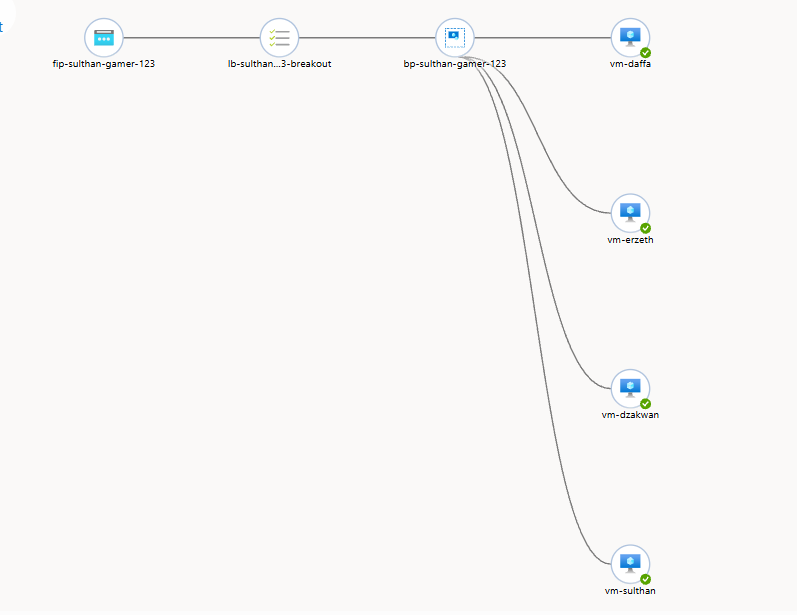
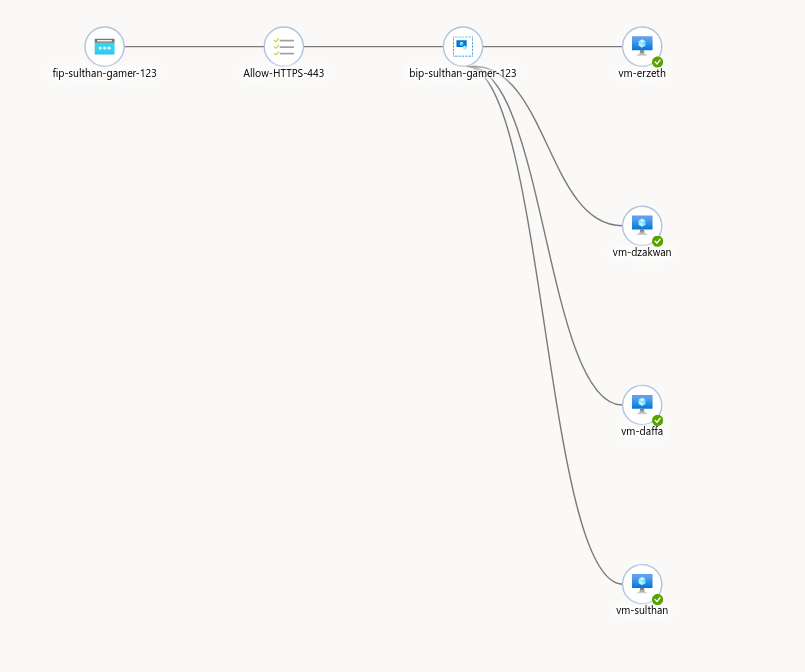
readme

diff --git a/README.md b/README.md
@@ -1,145 +1,176 @@
 # Lab Based Education (LBE) Final Capstone Project
-
+ 
 ## Project Overview
-Proyek ini merupakan tugas akhir untuk *Lab Based Education (LBE) Workshop*. Sistem ini mengimplementasikan infrastruktur *cloud* yang resilient dan handal menggunakan **Azure Standard Load Balancer** untuk mendistribusikan lalu lintas HTTP (Port 80) ke 4 Virtual Machine (VM) Ubuntu. Masing-masing VM menjalankan aplikasi portofolio anggota tim yang dikemas di dalam kontainer **Docker (Nginx)** pada port 8080.
-
+Proyek ini merupakan tugas akhir untuk *Lab Based Education (LBE) Workshop*. Sistem ini mengimplementasikan infrastruktur *cloud* yang resilient dan handal menggunakan **Azure Standard Load Balancer** untuk mendistribusikan lalu lintas **HTTPS (Port 443)** ke 4 Virtual Machine (VM) Ubuntu. Masing-masing VM menjalankan dua kontainer Docker: **Caddy** (reverse proxy sekaligus TLS terminator) dan **Nginx** yang menyajikan aplikasi portofolio anggota tim.
+ 
 ---
-
+ 
 ## Team Members & Roles
-
+ 
 | Name | Role | VM Name | Username / Hostname |
 | --- | --- | --- | --- |
-| **Daffa** | Team Owner  | `vm-daffa` | `daffa` |
-| **Sulthan** | Cloud Infrastructure Engineer | `vm-sulthan` | `sulthan` |
-| **Dzakwan** | Cloud Infrastructure Engineer | `vm-dzakwan` | `dzakwan` |
-| **Erzeth** | Cloud Infrastructure Engineer | `vm-erzeth` | `erzeth` |
-
+| **Erzeth** | VM **dengan** Public IP | `vm-erzeth` | `erzeth` |
+| **Daffa** | VM tanpa Public IP | `vm-daffa` | `daffa` |
+| **Sulthan** | VM tanpa Public IP | `vm-sulthan` | `sulthan` |
+| **Dzakwan** | VM tanpa Public IP | `vm-dzakwan` | `dzakwan` |
+ 
 ---
-
+ 
 ## System Architecture
+ 
 ![load balancer](docs/healthy-backend-pool.png)
+
+ 
 * **Shared Resource Group & VNet:** Seluruh VM dan Load Balancer berada di dalam satu Resource Group dan Virtual Network yang sama.
-* **Frontend Port:** 80 (Akses HTTP Publik).
-* **Backend Port:** 8080 (Mapped ke Port 80 Nginx di dalam Docker Container).
-* **Session Persistence:** `None` (Memastikan distribusi koneksi terbagi rata pada Layer 4).
+* **Domain:** `sulthangamer123.run.place`
+* **Frontend Port:** 443 (HTTPS, Akses Publik).
+* **Backend Port:** 443, diteruskan ke kontainer Caddy pada setiap VM.
+* **TLS Termination:** Ditangani oleh **Caddy** di setiap VM, menggunakan sertifikat dari **Let's Encrypt**.
+* **Session Persistence:** `None` (memastikan distribusi koneksi terbagi rata pada Layer 4).
+* **NSG:** Inbound rule TCP port 443 diizinkan pada seluruh VM.
 
 ---
-
+ 
 ## Application Structure & Deployment
-
-Aplikasi menggunakan pendekatan **Unified Docker Image** yang dinamis. Satu image Docker memuat seluruh folder portofolio anggota tim, dan memilih folder yang sesuai berdasarkan variabel lingkungan `MEMBER_NAME` yang diinisialisasi dari `$(whoami)` pada setiap VM.
-
+ 
+Aplikasi menggunakan pendekatan **Unified Docker Image** yang dinamis untuk kontainer portofolio. Satu image Docker memuat seluruh folder portofolio anggota tim, dan memilih folder yang sesuai berdasarkan variabel lingkungan `MEMBER_NAME` yang diinisialisasi dari `$(whoami)` pada setiap VM. Di atasnya, sebuah kontainer **Caddy** menangani HTTPS dan meneruskan trafik ke kontainer portofolio melalui Docker network internal (`webnet`), tanpa perlu membuka port tambahan di host.
+ 
 ### Repository Structure
+ 
 ```text
 .
+├── docker-compose.yml
+├── .env                          # berisi MEMBER_NAME, berbeda di tiap VM
+├── deploy.sh                     # script deploy: set MEMBER_NAME + docker compose up
 ├── app
-│   ├── Dockerfile
-│   ├── entrypoint.sh
-│   └── src
-│       ├── daffa
-│       │   ├── assets
-│       │   │   └── gw-pas-masih-ganteng.jpg
-│       │   └── src
-│       │       └── index.html
-│       ├── dzakwan
-│       │   └── src
-│       │       └── index.html
-│       ├── erzeth
-│       │   └── src
-│       │       ├── index.html
-│       │       ├── script.js
-│       │       └── style.css
-│       └── sulthan
-│           └── src
-│               └── index.html
+│   ├── Dockerfile
+│   ├── Caddyfile
+│   ├── entrypoint.sh
+│   └── src
+│       ├── daffa/...
+│       ├── dzakwan/...
+│       ├── erzeth/...
+│       └── sulthan/...
 ├── docs
-│   ├── healthy-backend-pool.png
-│   ├── healthy-curl-loop-output.jpeg
-│   ├── one-vm-down-backend-pool.jpeg
-│   └── one-vm-down-curl-loop-output.jpeg
+│   ├── healthy-backend-pool.png          # ⚠ perlu diganti
+│   ├── healthy-curl-loop-output.jpeg     # ⚠ perlu diganti
+│   ├── one-vm-down-backend-pool.jpeg     # ⚠ perlu diganti
+│   ├── one-vm-down-curl-loop-output.jpeg # ⚠ perlu diganti
+│   ├── nsg-rule-443.png                  # 🆕 tambahkan
+│   └── caddy-cert-log.png                # 🆕 tambahkan
 └── README.md
 ```
-
+ 
 ### Build & Offline Distribution Steps
-
-1. **Build Image di Jump Box (`vm-daffa`):**
+ 
+Karena hanya `vm-erzeth` yang memiliki akses internet (public IP), image dibangun sekali di `vm-erzeth`, kemudian didistribusikan secara offline ke 3 VM lainnya.
+ 
+**1. Build & Save Image di Jump Server (`vm-erzeth`):**
 ```bash
-docker build -t portfolio-app -f docker/Dockerfile .
-docker save portfolio-app -o ~/portfolio-app.tar
-
+docker compose build --no-cache portfolio
+docker save -o portfolio-image.tar sulthangamer123/portfolio-app:latest 
+docker save -o ~/caddy-image.tar caddy:alpine
+```
+ 
+**2. Distribusi Image via Network Lokal (`scp`):**
+```bash
+scp ~/portfolio-image.tar ~/caddy-image.tar sulthan@10.0.2.4:~/
+scp ~/portfolio-image.tar ~/caddy-image.tar dzakwan@10.0.3.4:~/
 ```
 
-
-2. **Distribusi File Image via Network Local (`scp`):**
+ 
+**3. Load Image dan Jalankan di Masing-masing VM:**
 ```bash
-scp ~/portfolio-app.tar sulthan@10.0.2.4:~/
-scp ~/portfolio-app.tar dzakwan@10.0.4.4:~/
-scp ~/portfolio-app.tar erzeth@10.0.0.4:~/
-
+docker load -i ~/portfolio-image.tar
+docker load -i ~/caddy-image.tar
+./deploy.sh
 ```
-
-
-3. **Load dan Execution di Masing-masing VM:**
-```bash
-docker load -i ~/portfolio-app.tar
-docker run -d --name portfolio -p 8080:80 -e MEMBER_NAME=$(whoami) portfolio-app
-```
-
-
-
+ 
 ---
+ 
+## Implementasi HTTPS dengan Caddy & Let's Encrypt
+ 
+Setiap VM menjalankan kontainer Caddy yang secara otomatis memperoleh dan mengelola sertifikat TLS dari Let's Encrypt untuk domain `sulthangamer123.run.place`. Karena 3 dari 4 VM tidak memiliki akses internet langsung, sertifikat diterbitkan satu kali di `vm-erzeth` (satu-satunya VM dengan akses publik), kemudian didistribusikan ke ketiga VM lainnya melalui jaringan privat Azure — sehingga seluruh VM dapat menyajikan HTTPS dengan sertifikat yang valid dan identik tanpa perlu masing-masing menghubungi Let's Encrypt sendiri.
+ 
+```bash
+# Di vm-erzeth, setelah sertifikat berhasil diterbitkan:
+sudo tar czf caddy-data.tar.gz -C /var/lib/docker/volumes/ /var/lib/docker/volumes/sulthan-gamer-123-lbe-final_caddy_data/_data .
 
+scp caddy-data.tar.gz daffa@10.0.1.4:~/
+scp caddy-data.tar.gz dzakwan@10.0.2.4:~/
+scp caddy-data.tar.gz sulthan@10.0.3.4:~/
+```
+
+Di setiap VM tujuan:
+```bash
+daffa@vm-daffa:~$ sudo tar xzf ~/caddy-data.tar.gz -C /var/lib/docker/volumes/sulthan-gamer-123-lbe-final_caddy_data/_data
+docker compose up -d
+```
+ 
+ 
 ## Evidence of Distribution
-
+ 
 Pengujian distribusi lalu lintas dilakukan menggunakan metode **Curl Loop** dari terminal lokal untuk memastikan pemisahan koneksi TCP pada Layer 4 Azure Standard Load Balancer.
-
+ 
 ### Execution Command
-
 ```bash
 for i in $(seq 1 52); do     
-    curl -s -H "Connection: close" http://85.211.173.152/config.js;     
+    curl -s -H "Connection: close" https://sulthangamer123.run.place/config.js;     
     echo ""; 
 done
-
 ```
-
+ 
 ### Output Result
-
 ![Curl Loop Terminal Screenshot](docs/healthy-curl-loop-output.jpeg)
 
 ---
-
-## Optional Stretch Goal: Failover Test (Simulated Failure)
-
-Pengujian keandalan infrastruktur dilakukan dengan cara mematikan kontainer secara sengaja di salah satu VM (`vm-dzakwan`).
-
-1. **Stop Container di `vm-dzakwan`:**
+ 
+## Failover Test: Simulated Failure
+ 
+Pengujian keandalan infrastruktur dilakukan dengan cara mematikan kontainer secara sengaja di salah satu VM (`vm-daffa`).
+ 
+1. **Stop Container di `vm-daffa`:**
 ```bash
-docker stop portfolio
+docker compose stop caddy portfolio
 ```
-
-
-2. **Health Probe Reaction:**
-Azure Load Balancer secara otomatis mendeteksi port `8080` pada `vm-dzakwan` tidak merespon (*Unhealthy*) dalam beberapa detik.
-3. **Traffic Rerouting Verification:**
-Saat `curl loop` dijalankan kembali, Load Balancer berhasil mengalihkan seluruh lalu lintas hanya ke 3 VM yang masih sehat (`daffa`, `sulthan`, `erzeth`) tanpa menyebabkan *downtime* pada pengguna.
-4. **Recovery Verification:**
-Kontainer dihidupkan kembali (`docker start portfolio`), Health Probe kembali bernilai *Healthy*, dan lalu lintas otomatis terbagi kembali secara merata ke 4 VM.
-
+2. **Health Probe Reaction:** Azure Load Balancer secara otomatis mendeteksi port **443** pada `vm-daffa` tidak merespon (*Unhealthy*) dalam beberapa detik.
+3. **Traffic Rerouting Verification:** Saat `curl loop` dijalankan kembali, Load Balancer berhasil mengalihkan seluruh lalu lintas hanya ke 3 VM yang masih sehat tanpa menyebabkan *downtime* pada pengguna.
+4. **Recovery Verification:** Kontainer dihidupkan kembali (`docker compose start caddy portfolio`), Health Probe kembali bernilai *Healthy*, dan lalu lintas otomatis terbagi kembali secara merata ke 4 VM.
 **Screenshot Failover Evidence:**
 ![Failover Test Screenshot 1](docs/one-vm-down-backend-pool.jpeg)
-
 ![Failover Test Screenshot 2](docs/one-vm-down-curl-loop-output.jpeg)
-
-Screenshot diatas menunjukkan jika salah satu vm sudah mati, tetapi vm lain masih bisa diakses melalui Load Balancer.
-
+ 
 ---
-
-**CI/CD Evidence – Docker Hub Push**
+ 
+## CI/CD Evidence – Docker Hub Push
+ 
 ![push portfolio-app](docs/portfolio-app.jpeg)
-
 ![build-and-push-success](docs/Build_and_push_success.png)
-
-Screenshot diatas menunjukkan github action sudah berhasil push ke docker hub.
-
 ---
+ 
+##  Implementasi HTTPS
+ 
+Migrasi dari HTTP ke HTTPS pada infrastruktur ini menjadi salah satu pencapaian teknis terbesar dalam proyek ini. Tim berhasil mengimplementasikan TLS termination penuh menggunakan Caddy di seluruh 4 VM di balik Azure Load Balancer — sebuah tantangan tersendiri karena Azure Standard Load Balancer beroperasi di Layer 4 dan tidak menyediakan dukungan TLS bawaan.
+ 
+Beberapa pencapaian kunci dalam proses ini:
+ 
+- **Load balancing HTTPS end-to-end** berhasil dikonfigurasi dengan menambahkan rule dan health probe baru pada port 443, tanpa mengganggu ketersediaan layanan yang sudah berjalan di port 80.
+- **Sertifikat TLS valid dari Let's Encrypt** berhasil diperoleh dan didistribusikan secara merata ke seluruh 4 VM, termasuk 3 VM yang tidak memiliki akses internet langsung — dicapai melalui strategi *"issue once, distribute everywhere"* menggunakan Docker volume dan transfer file via jaringan privat.
+- **Arsitektur dua-kontainer** (Caddy + Nginx) berhasil diorkestrasi menggunakan Docker Compose dengan Docker network internal, menggantikan pendekatan `docker run` manual yang lebih rawan human error.
+- **Distribusi image secara offline** untuk VM tanpa akses internet berhasil diimplementasikan menggunakan `docker save`/`docker load`, memastikan seluruh VM menjalankan image yang identik tanpa memerlukan registry eksternal.
+- Sistem akhir terbukti **tangguh terhadap kegagalan VM** (dibuktikan lewat failover test) sekaligus **aman** (HTTPS end-to-end dengan sertifikat valid), mencerminkan praktik infrastruktur cloud yang production-grade meski dikerjakan dalam skala proyek pembelajaran.
+Hasil akhir: seluruh 4 VM kini menyajikan aplikasi portofolio tim melalui `https://sulthangamer123.run.place` dengan sertifikat TLS yang valid, terdistribusi merata oleh Azure Load Balancer, dan tetap tersedia bahkan ketika salah satu VM mengalami gangguan.
+ 
+---
+ 
+## Panduan Troubleshooting
+ 
+Bagian ini berisi langkah-langkah diagnostik umum apabila HTTPS tidak berfungsi saat proses replikasi/deployment ulang dilakukan oleh pihak lain.
+ 
+1. **HTTPS timeout dari luar** → Cek apakah *load balancing rule* untuk port 443 sudah ada (frontend 443 → backend 443), dan apakah NSG mengizinkan inbound TCP 443.
+2. **Caddy tidak bisa mengakses internet (gagal resolve DNS)** → Tambahkan `dns: [8.8.8.8, 1.1.1.1]` secara eksplisit pada service Caddy di `docker-compose.yml`, terutama jika host menggunakan `systemd-resolved`.
+3. **Validasi ACME gagal dengan 404** → Kemungkinan besar karena Load Balancer meneruskan request validasi Let's Encrypt ke VM yang berbeda dari yang sedang meminta sertifikat. Solusi: keluarkan sementara VM lain dari backend pool saat proses issue sertifikat berlangsung.
+4. **403 Forbidden dari Nginx** → Periksa apakah folder `/usr/share/nginx/html` benar-benar berisi `index.html`. Jika kosong, cek path pada `entrypoint.sh` sesuai struktur folder hasil `COPY` di Dockerfile.
+5. **502 Bad Gateway dari Caddy** → Biasanya disebabkan kontainer Caddy dan Nginx berada di Docker network yang berbeda. Jalankan `docker compose down` penuh (bukan hanya restart satu service) lalu `docker compose up -d` agar keduanya kembali berada di network yang sama.
+6. **Sertifikat tidak muncul di VM tujuan setelah distribusi volume** → Verifikasi nama volume Docker yang benar dengan `docker inspect <container> --format '{{json .Mounts}}'`, dan pastikan arsip `tar` dibuat dengan path absolut volume yang tepat (`tar tzf` untuk memverifikasi isi arsip sebelum didistribusikan, guna menghindari struktur folder bersarang yang tidak valid).
+ 
